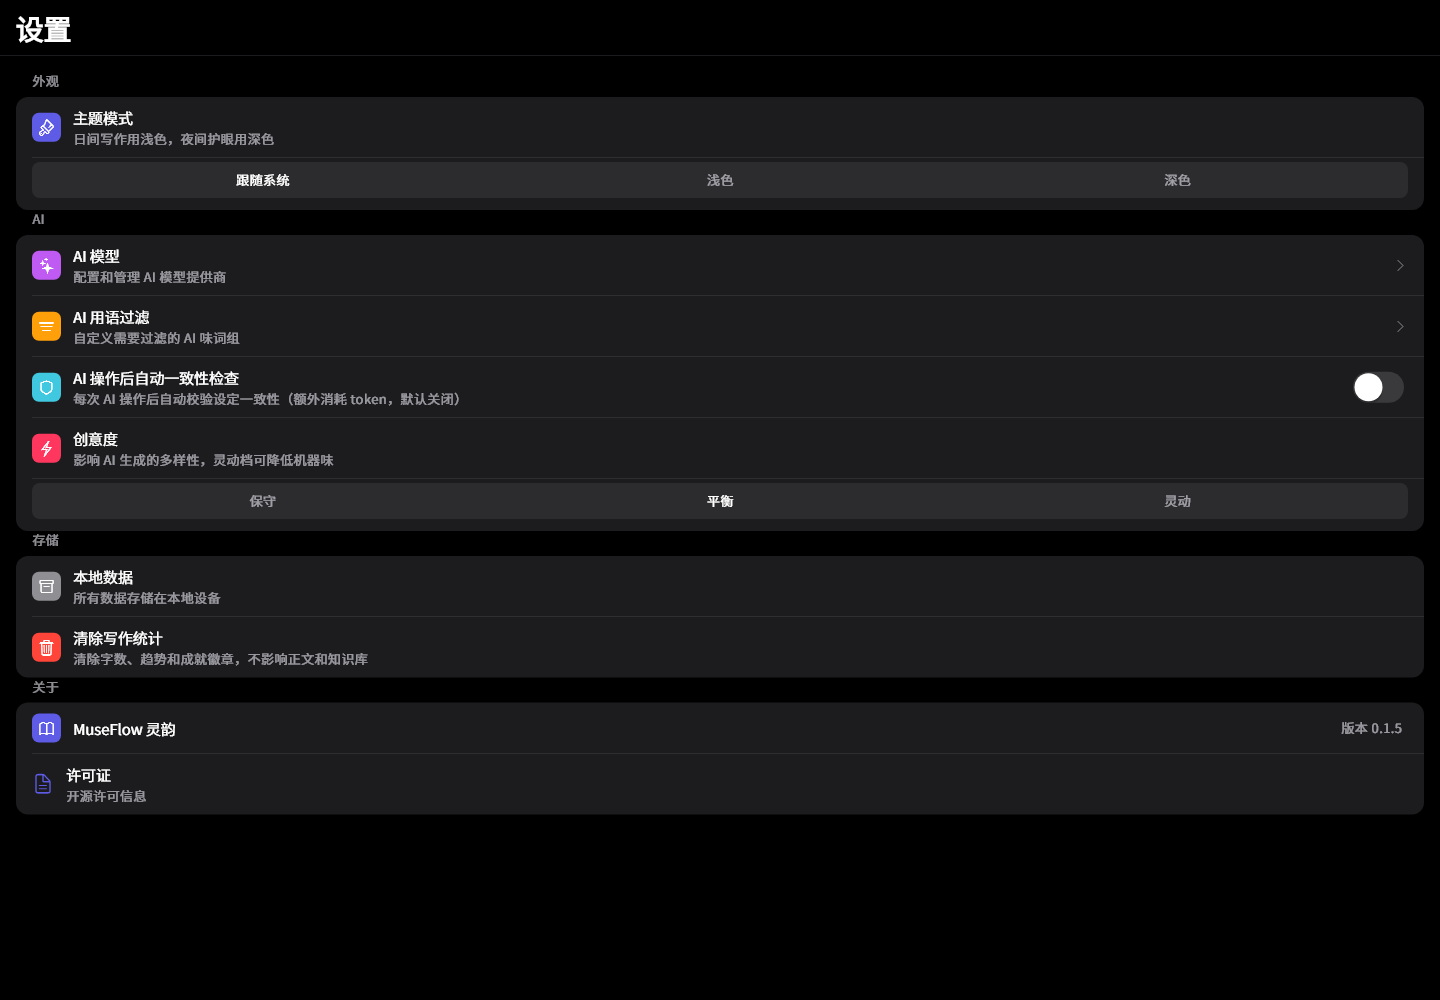
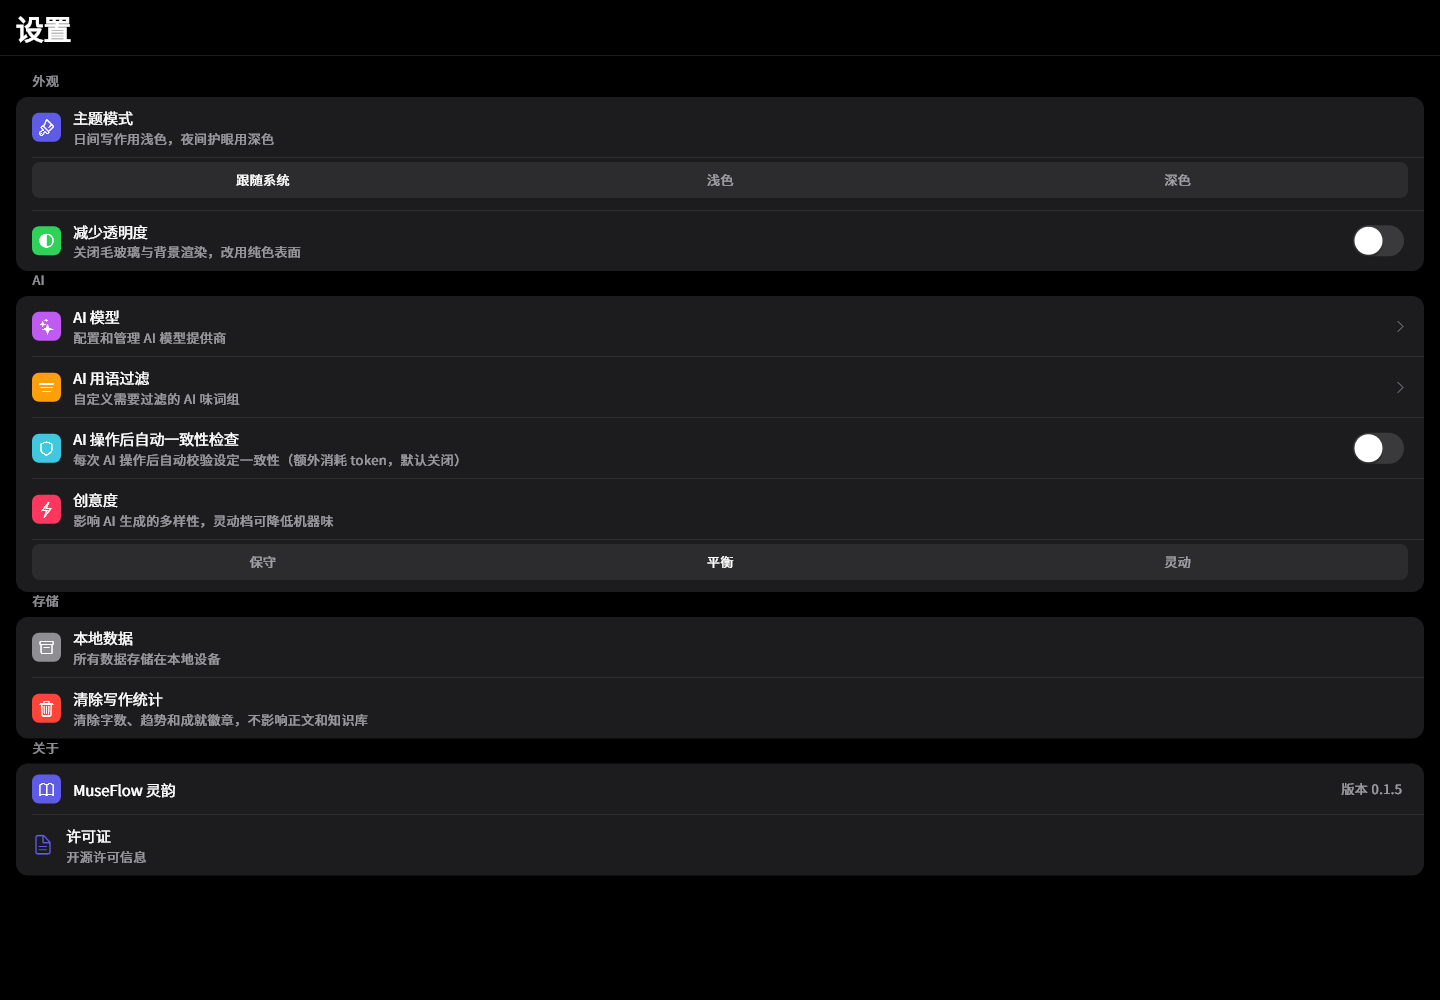
feat(a11y): reduce-transparency fallback for every glass surface (C2)
Apple's "Reduce Transparency" switch, end to end:
- AppVisualSettings inherited widget flips the whole tree at once
  (applied in MuseFlowApp's builder in the next commit).
- AppMaterial degrades to the opaque elevation color for its tier
  (ultraThin/thin→raised, regular→floating, thick→modal) — no
  BackdropFilter, no tint wash; hairlines and the rim stay.
- reduceTransparencyProvider persists to the encrypted settings
  box; 设置 → 外观 gains the 减少透明度 switch.
- settings golden regenerated (covers C1's secondaryLabel value
  and the new switch row together).

app_materials_test pins: no blur under the flag, opaque elevation
color rendered, hairlines survive, glass path untouched when the
flag is absent, tier→elevation mapping monotonic.

diff --git a/lib/shared/theme/app_materials.dart b/lib/shared/theme/app_materials.dart
@@ -117,6 +117,16 @@ enum AppMaterialTier {
 
   /// Top-edge inner highlight alpha (bright rim).
   double highlightAlphaOn(AppPalette p) => p.isDark ? 0.16 : 0.45;
+
+  /// The opaque surface used when translucency is reduced (HIG fallback):
+  /// each tier maps onto the neutral elevation ramp at the height Apple
+  /// would use for that role.
+  AppElevation elevationWhenReduced() => switch (this) {
+    AppMaterialTier.ultraThin => AppElevation.raised,
+    AppMaterialTier.thin => AppElevation.raised,
+    AppMaterialTier.regular => AppElevation.floating,
+    AppMaterialTier.thick => AppElevation.modal,
+  };
 }
 
 /// A frosted-glass surface: blur + tint + inner highlight + hairline edge.
@@ -224,6 +234,48 @@ class AppMaterial extends StatelessWidget {
       };
     }
 
+    // Child + hairline overlays, shared by both the glass and the
+    // reduced-transparency fallback so edge treatment never diverges.
+    Widget contentOverlays() => Material(
+      // Transparent Material so ink-based children (InkWell, ListTile)
+      // work without relying on a Scaffold ancestor.
+      type: MaterialType.transparency,
+      child: Stack(
+        children: [
+          child,
+          if (borderEdges.contains(LogicalEdge.top))
+            edge(LogicalEdge.top)
+          else
+            rim,
+          for (final e in borderEdges.where((e) => e != LogicalEdge.top))
+            edge(e),
+        ],
+      ),
+    );
+
+    // Reduce-transparency fallback (HIG): the opaque elevation color for
+    // this tier, no blur and no tint wash. Hairlines and the rim stay.
+    if (AppVisualSettings.isReduced(context)) {
+      return DecoratedBox(
+        decoration: BoxDecoration(
+          color: tier.elevationWhenReduced().on(p),
+          borderRadius: radius,
+          boxShadow: shadow
+              ? [
+                  BoxShadow(
+                    color: Colors.black.withValues(
+                      alpha: p.isDark ? 0.35 : 0.18,
+                    ),
+                    blurRadius: 24,
+                    offset: const Offset(0, 8),
+                  ),
+                ]
+              : null,
+        ),
+        child: ClipRRect(borderRadius: radius, child: contentOverlays()),
+      );
+    }
+
     return DecoratedBox(
       decoration: BoxDecoration(
         borderRadius: radius,
@@ -248,24 +300,7 @@ class AppMaterial extends StatelessWidget {
             tint: tint,
             radius: radius,
             scrollEdge: scrollEdge,
-            child: Material(
-              // Transparent Material so ink-based children (InkWell,
-              // ListTile) work without relying on a Scaffold ancestor.
-              type: MaterialType.transparency,
-              child: Stack(
-                children: [
-                  child,
-                  if (borderEdges.contains(LogicalEdge.top))
-                    edge(LogicalEdge.top)
-                  else
-                    rim,
-                  for (final e in borderEdges.where(
-                    (e) => e != LogicalEdge.top,
-                  ))
-                    edge(e),
-                ],
-              ),
-            ),
+            child: contentOverlays(),
           ),
         ),
       ),
@@ -324,6 +359,34 @@ class _TintLayer extends StatelessWidget {
 
 /// Logical edges for [AppMaterial.borderEdges].
 enum LogicalEdge { top, left, right, bottom }
+
+/// Inherited accessibility switch: reduce translucency app-wide.
+///
+/// The Flutter analog of Apple's "Reduce Transparency" setting. When on,
+/// [AppMaterial] paints the opaque elevation color for its tier (no blur,
+/// no tint wash) and the ambient canvas collapses to the plain base —
+/// the documented HIG fallback that keeps text on solid surfaces.
+class AppVisualSettings extends InheritedWidget {
+  const AppVisualSettings({
+    super.key,
+    required this.reduceTransparency,
+    required super.child,
+  });
+
+  final bool reduceTransparency;
+
+  /// Whether translucency is reduced in [context] (false when no
+  /// [AppVisualSettings] ancestor exists — e.g. widget tests).
+  static bool isReduced(BuildContext context) =>
+      context
+          .dependOnInheritedWidgetOfExactType<AppVisualSettings>()
+          ?.reduceTransparency ??
+      false;
+
+  @override
+  bool updateShouldNotify(AppVisualSettings oldWidget) =>
+      oldWidget.reduceTransparency != reduceTransparency;
+}
 
 /// Focus ring: the accent-tinted ring shown around the focused control,
 /// Apple-style — 3pt soft outer glow plus a crisp 1.5pt accent outline.

diff --git a/test/shared/theme/app_materials_test.dart b/test/shared/theme/app_materials_test.dart
@@ -325,6 +325,98 @@ void main() {
       expect(_ringDecorations(tester), isEmpty);
     });
   });
+
+  group('AppVisualSettings (reduce transparency)', () {
+    Widget wrapReduced(Widget child, {bool reduce = false}) => MaterialApp(
+      theme: appTheme(Brightness.dark),
+      home: Scaffold(
+        body: AppVisualSettings(
+          reduceTransparency: reduce,
+          child: Center(child: child),
+        ),
+      ),
+    );
+
+    testWidgets('reduced material drops blur and tint for opaque elevation', (
+      tester,
+    ) async {
+      await tester.pumpWidget(
+        wrapReduced(
+          const AppMaterial(
+            tier: AppMaterialTier.regular,
+            child: SizedBox(width: 100, height: 100),
+          ),
+          reduce: true,
+        ),
+      );
+
+      expect(
+        find.byType(BackdropFilter),
+        findsNothing,
+        reason: 'reduced mode must not blur',
+      );
+
+      // The surface is the opaque floating elevation color.
+      expect(
+        find.byWidgetPredicate(
+          (w) =>
+              w is DecoratedBox &&
+              w.decoration is BoxDecoration &&
+              (w.decoration as BoxDecoration).color ==
+                  AppMaterialTier.regular.elevationWhenReduced().on(
+                    darkPalette,
+                  ),
+        ),
+        findsOneWidget,
+      );
+    });
+
+    testWidgets('reduced mode keeps hairline separators', (tester) async {
+      await tester.pumpWidget(
+        wrapReduced(
+          const AppMaterial(
+            tier: AppMaterialTier.thin,
+            borderEdges: {LogicalEdge.right},
+            child: SizedBox(width: 100, height: 100),
+          ),
+          reduce: true,
+        ),
+      );
+      // The right-edge hairline survives the fallback (Container folds a
+      // plain color into a ColoredBox).
+      expect(
+        find.byWidgetPredicate(
+          (w) => w is ColoredBox && w.color == darkPalette.separator,
+        ),
+        findsOneWidget,
+      );
+    });
+
+    testWidgets('glass renders normally when the flag is absent/false', (
+      tester,
+    ) async {
+      await tester.pumpWidget(
+        wrapReduced(
+          const AppMaterial(
+            tier: AppMaterialTier.thin,
+            child: SizedBox(width: 100, height: 100),
+          ),
+        ),
+      );
+      expect(find.byType(BackdropFilter), findsOneWidget);
+    });
+
+    test('tier→elevation mapping rises with tier weight', () {
+      expect(
+        AppMaterialTier.regular.elevationWhenReduced().index,
+        greaterThan(AppMaterialTier.thin.elevationWhenReduced().index),
+      );
+      expect(
+        AppMaterialTier.thick.elevationWhenReduced().index,
+        greaterThan(AppMaterialTier.regular.elevationWhenReduced().index),
+      );
+    });
+  });
 }
 
 double _luminance(Color c) => c.computeLuminance();

diff --git a/lib/core/presentation/providers_core.dart b/lib/core/presentation/providers_core.dart
@@ -97,3 +97,31 @@ final activeApiKeyProvider = Provider<String?>((ref) {
   final apiKeyAsync = ref.watch(apiKeyFutureProvider);
   return apiKeyAsync.asData?.value;
 });
+
+/// Whether translucency is reduced system-wide-in-app (accessibility).
+///
+/// Mirrors Apple's "reduce transparency" switch: when on, glass surfaces
+/// ([AppMaterial]) fall back to opaque elevation colors and the ambient
+/// canvas is replaced by the plain base wash, so text sits on solid
+/// surfaces instead of blurred content. Applied by `MuseFlowApp`'s
+/// builder; persisted in the encrypted settings box.
+final reduceTransparencyProvider =
+    NotifierProvider<ReduceTransparencyNotifier, bool>(
+      ReduceTransparencyNotifier.new,
+    );
+
+class ReduceTransparencyNotifier extends Notifier<bool> {
+  @override
+  bool build() {
+    final settings = ref.watch(settingsRepositoryProvider).value;
+    return settings?.getReduceTransparency() ?? false;
+  }
+
+  Future<void> set(bool value) async {
+    state = value;
+    final settings = ref.read(settingsRepositoryProvider).value;
+    if (settings != null) {
+      await settings.saveReduceTransparency(value);
+    }
+  }
+}

diff --git a/lib/core/infrastructure/settings_repository.dart b/lib/core/infrastructure/settings_repository.dart
@@ -52,6 +52,7 @@ class SettingsRepository {
   static const String _lastBrowserBackupAtKey = 'last_browser_backup_at';
   static const String _themeModeKey = 'theme_mode';
   static const String _backupBannerSnoozedAtKey = 'backup_banner_snoozed_at';
+  static const String _reduceTransparencyKey = 'reduce_transparency';
 
   SettingsRepository(this._box);
 
@@ -110,6 +111,18 @@ class SettingsRepository {
   /// Persists the auto deviation-check preference.
   Future<void> saveAutoDeviationCheck(bool enabled) async {
     await _box.put(_autoDeviationCheckKey, enabled);
+  }
+
+  /// Whether the user asked for reduced translucency (Apple's "reduce
+  /// transparency" accessibility setting): glass surfaces fall back to
+  /// opaque elevation colors and the ambient canvas is disabled.
+  bool getReduceTransparency() {
+    return _box.get(_reduceTransparencyKey, defaultValue: false) as bool;
+  }
+
+  /// Persists the reduce-transparency preference.
+  Future<void> saveReduceTransparency(bool enabled) async {
+    await _box.put(_reduceTransparencyKey, enabled);
   }
 
   /// Gets the user's creativity level (AA-03) for generation temperature.

diff --git a/lib/features/settings/presentation/settings_page.dart b/lib/features/settings/presentation/settings_page.dart
@@ -65,6 +65,21 @@ class SettingsPage extends ConsumerWidget {
                   ),
                 ),
               ),
+              // Apple's "Reduce Transparency" analog: glass surfaces fall
+              // back to opaque elevation colors and the ambient backdrop
+              // is disabled — legibility for users who can't read text
+              // over blurred content.
+              AppListTile(
+                icon: CupertinoIcons.circle_lefthalf_fill,
+                iconColor: AppColors.of(context).systemGreen,
+                title: '减少透明度',
+                subtitle: '关闭毛玻璃与背景渲染，改用纯色表面',
+                trailing: AppSwitch(
+                  value: ref.watch(reduceTransparencyProvider),
+                  onChanged: (value) =>
+                      ref.read(reduceTransparencyProvider.notifier).set(value),
+                ),
+              ),
             ],
           ),
           if (kIsWeb) const WebWorkspaceSettingsSection(),
